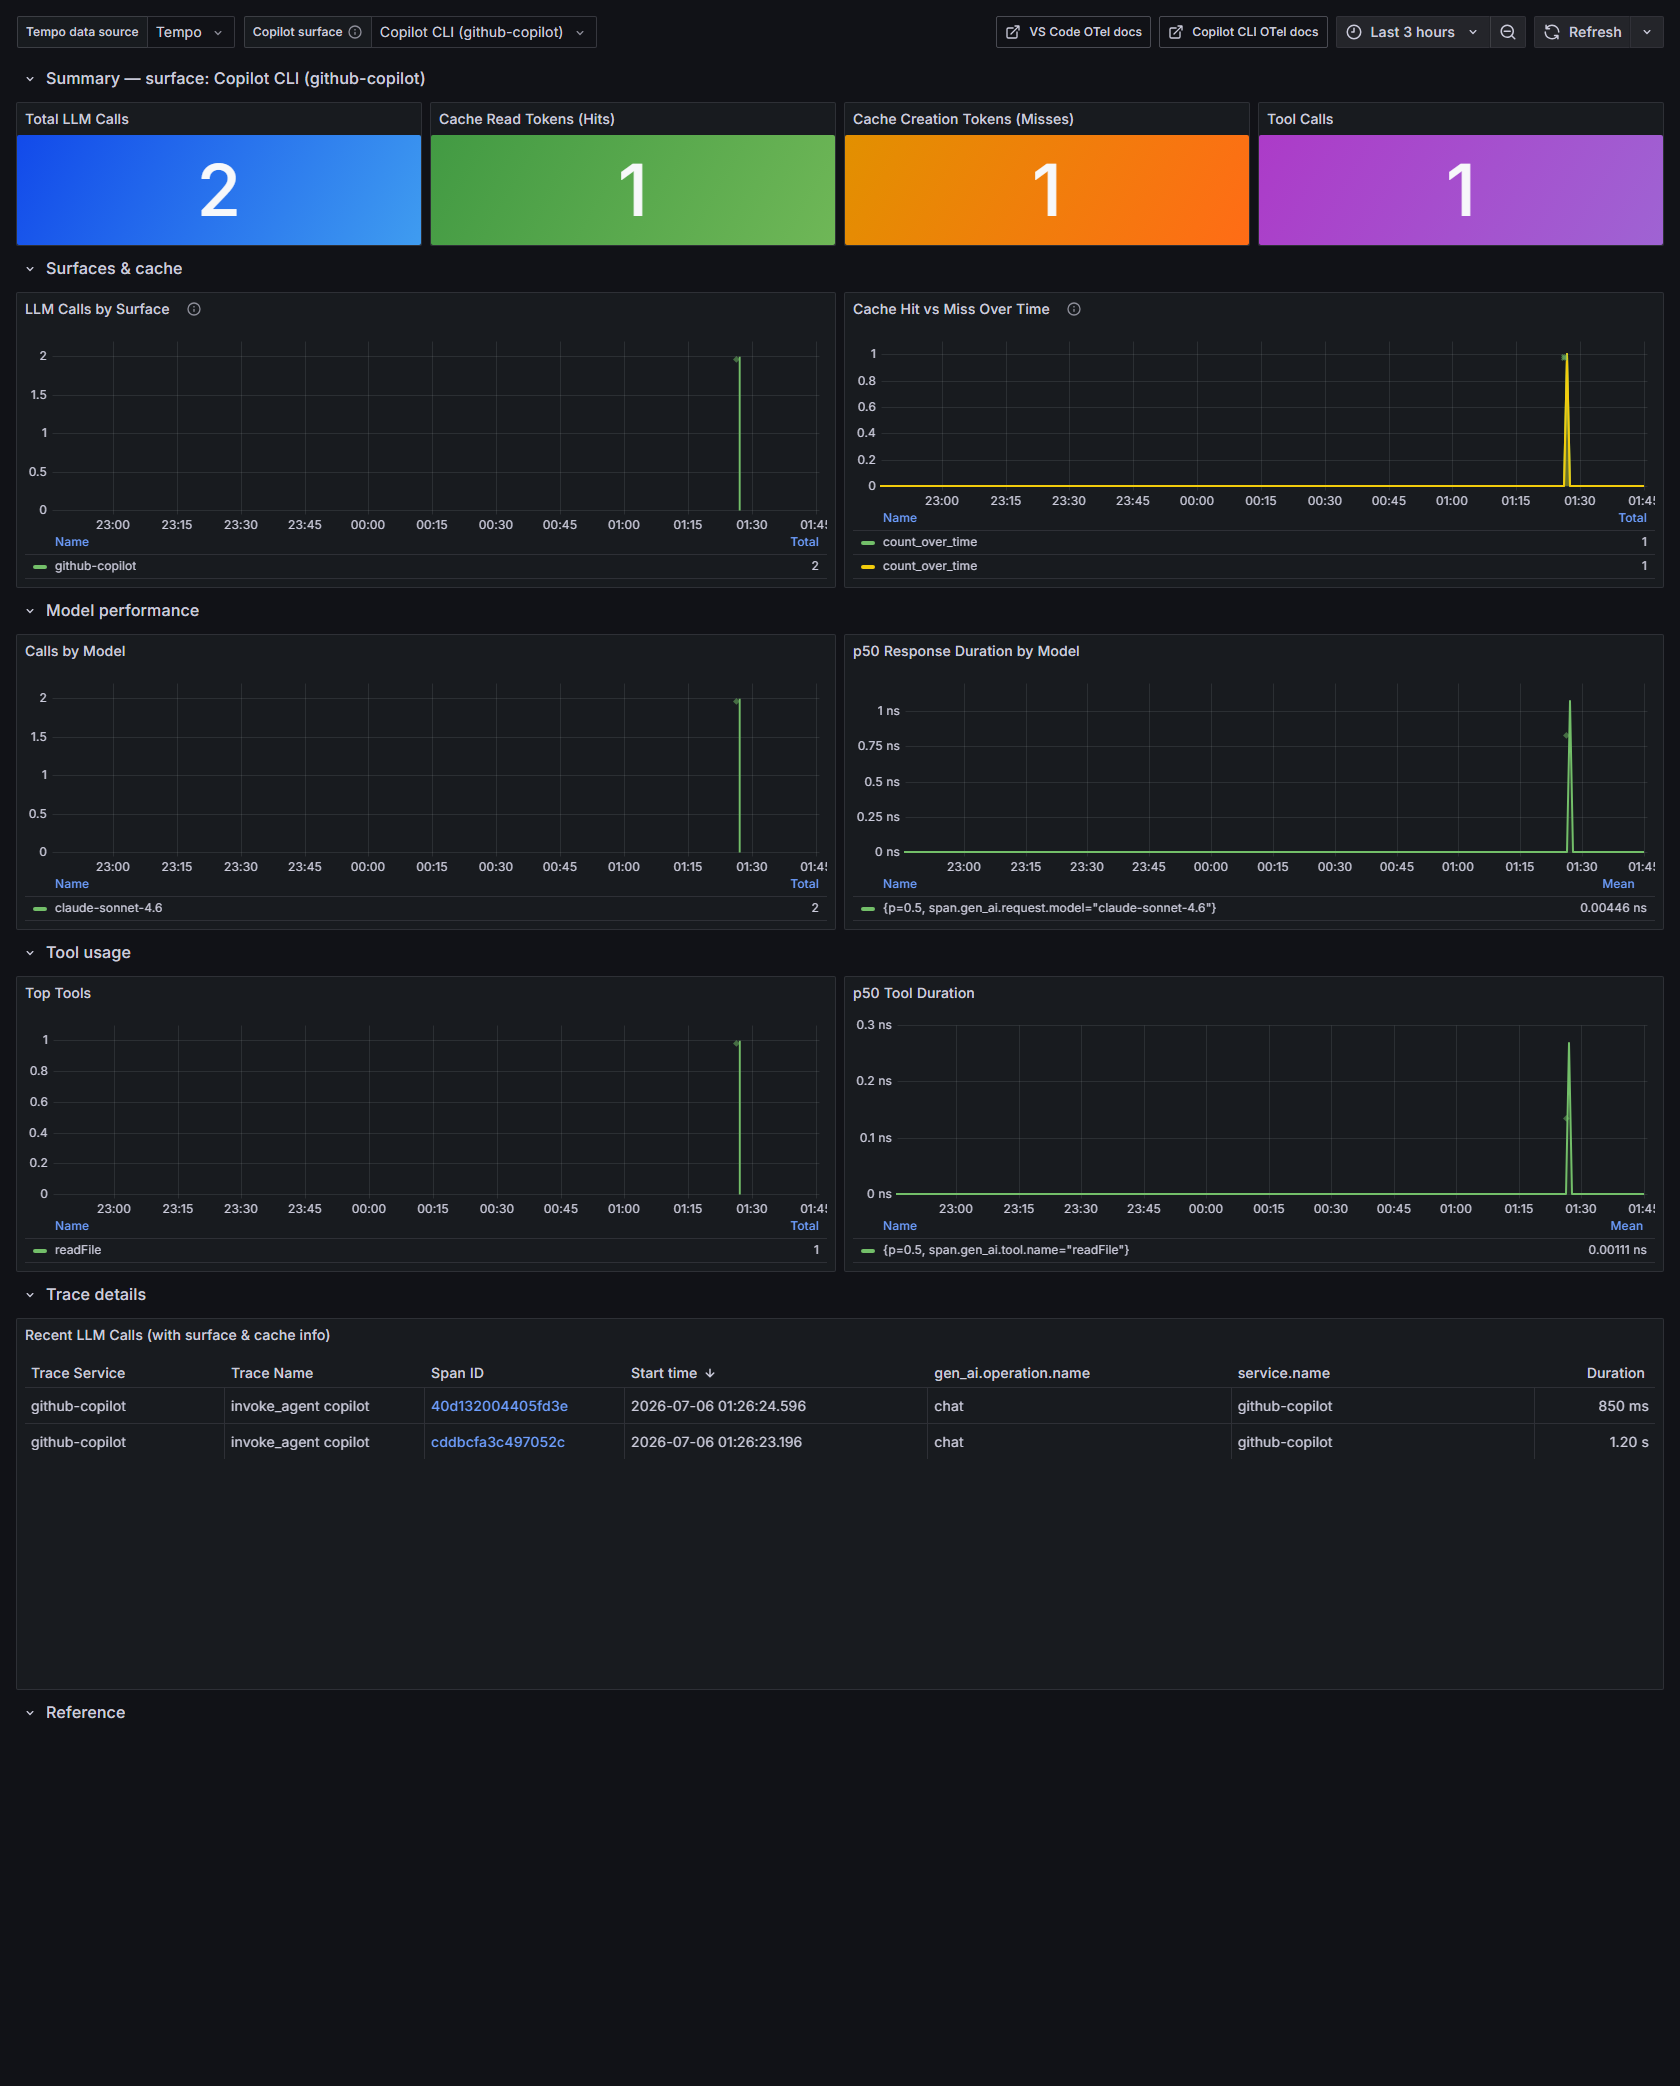
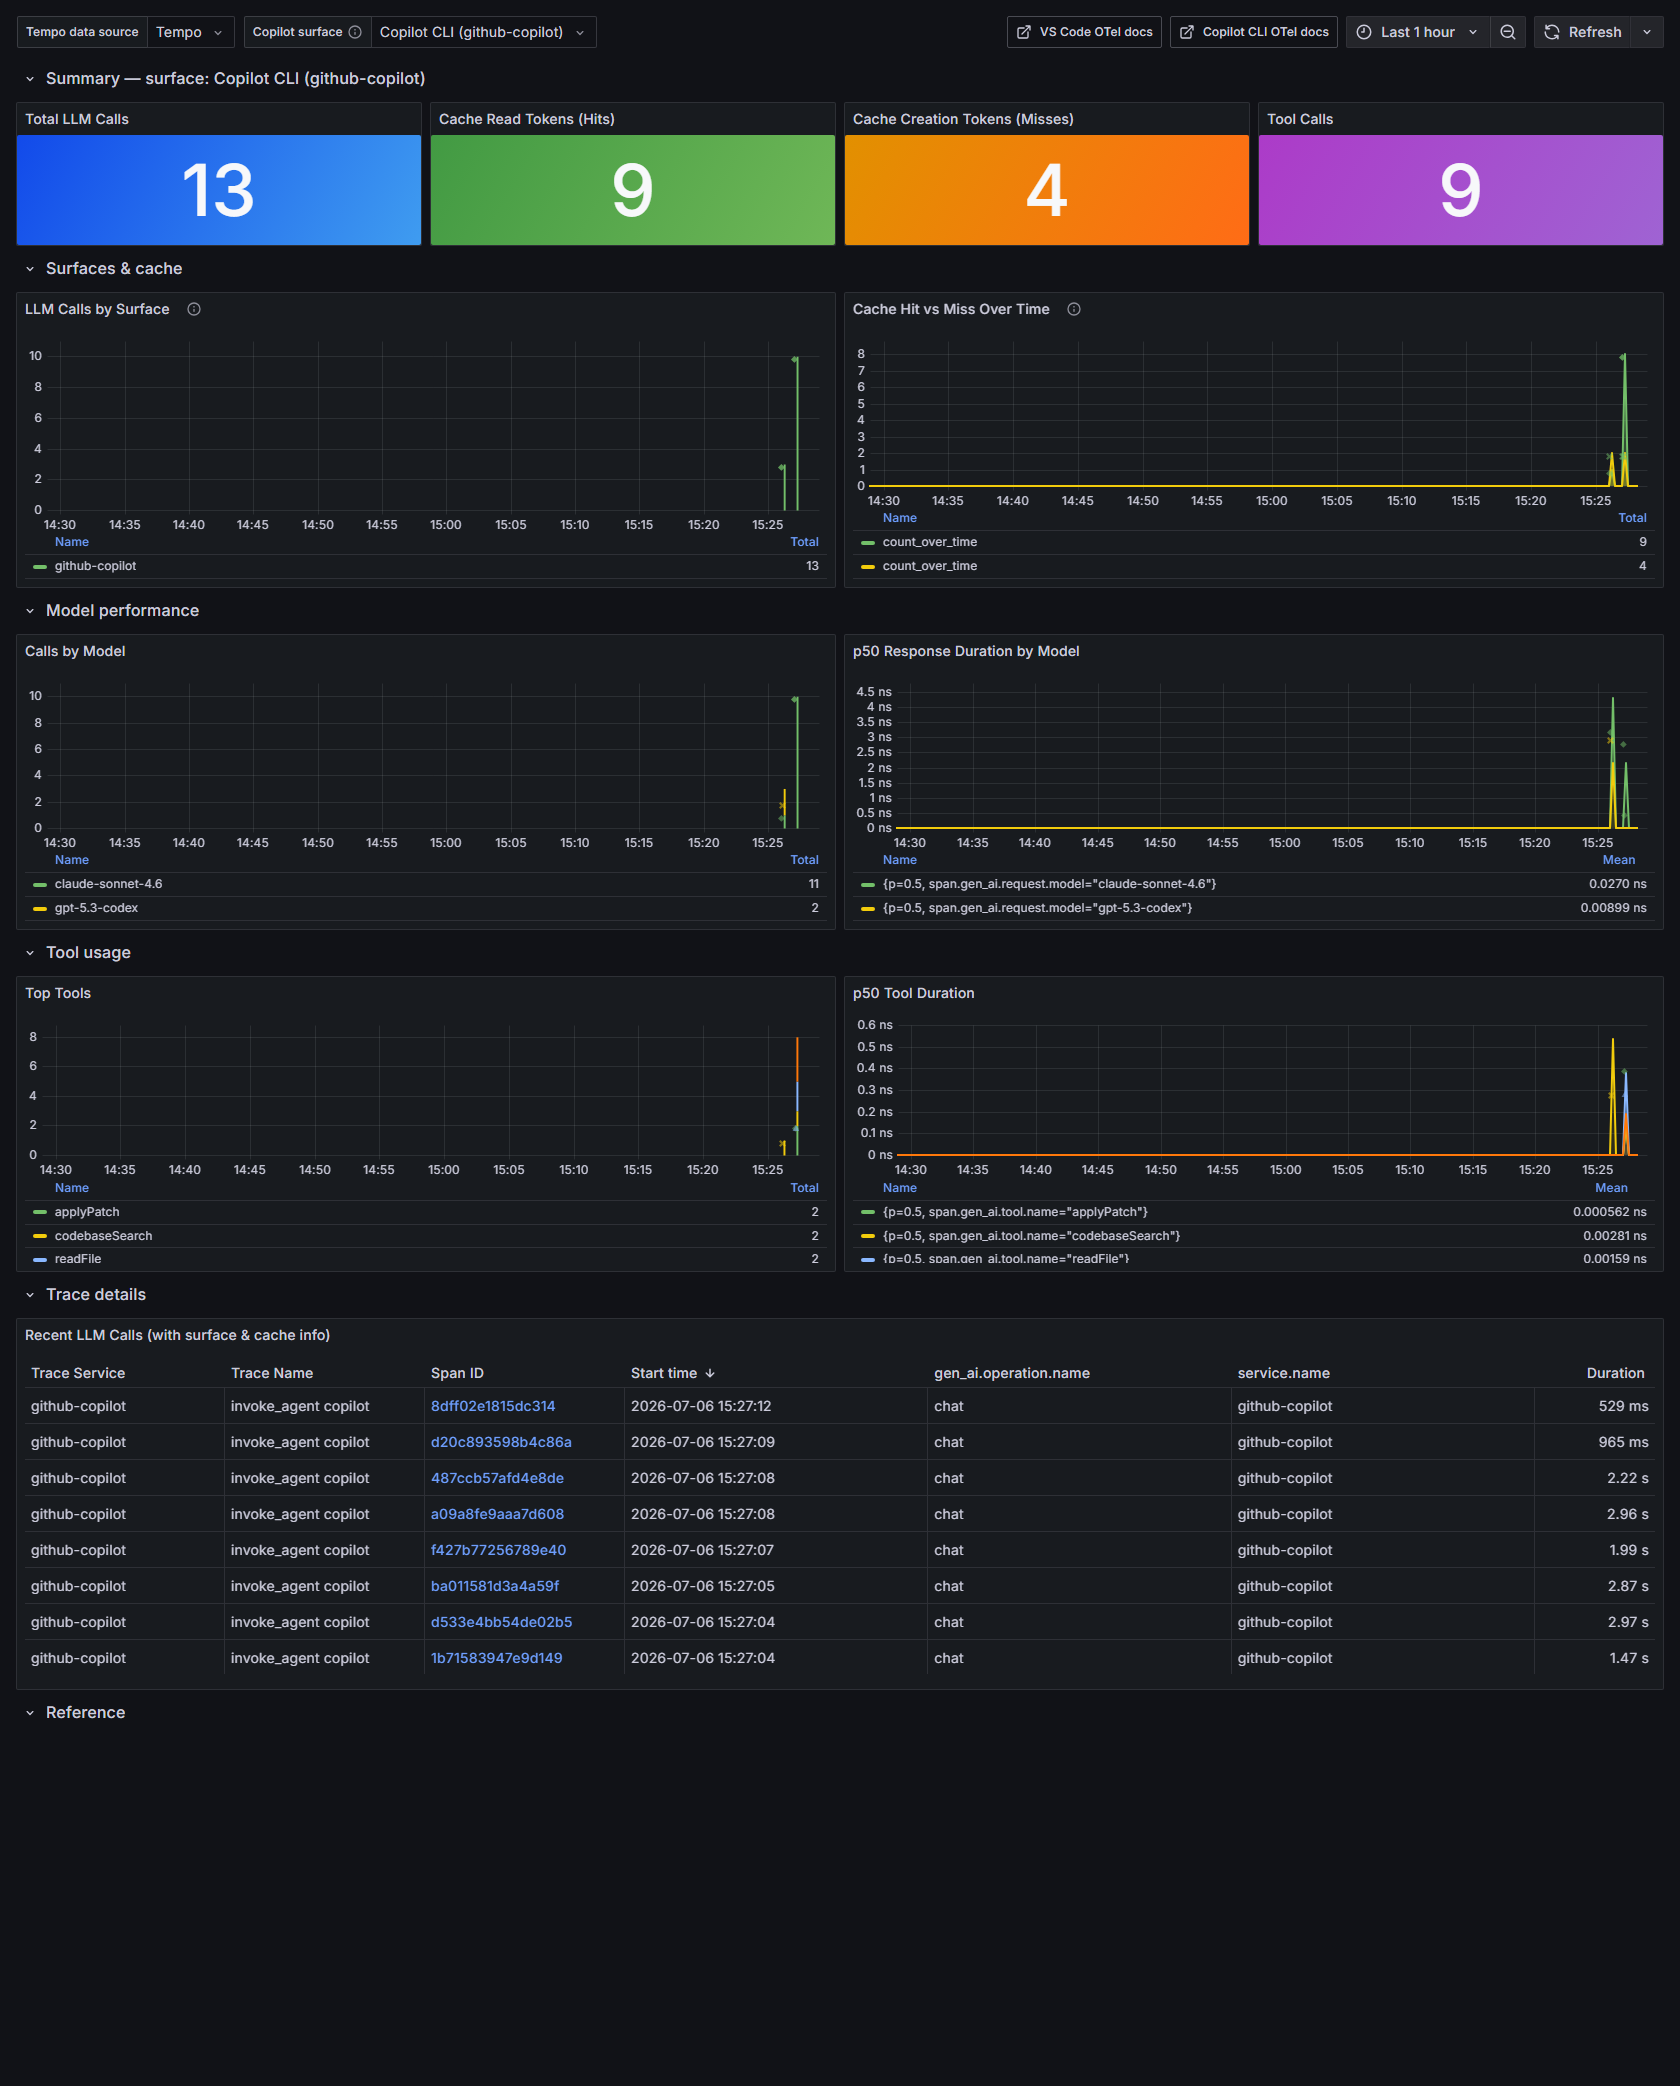
docs: reframe README + dashboards to the real picture (VS Code + CLI, not 'all surfaces')
README now leads with the honest surface-coverage table (VS Code/CLI/SDK emit customer-collectable OTel; Visual Studio/JetBrains not today; Copilot app unconfirmed; cloud coding agent = server-side/client-counters). Retitle both dashboards to 'GitHub Copilot OTel - VS Code + CLI' and relabel the selector's combined option to 'All (VS Code + CLI)'. Re-captured the Grafana screenshots to match.

diff --git a/README.md b/README.md
@@ -1,10 +1,11 @@
-# OpenTelemetry for GitHub Copilot — all surfaces (VS Code + CLI)
+# OpenTelemetry for GitHub Copilot — VS Code + the CLI
 
-A hands-on experiment and reference implementation for wiring **OpenTelemetry** through **every
-GitHub Copilot surface that emits it** — today that's **VS Code Copilot Chat** and the **GitHub
-Copilot CLI** — and visualizing the result in Grafana. It's built to be the working foundation for a
-longread article: each backend is a self-contained, reproducible setup, and the dashboards are
-surface-aware so you can compare VS Code vs the CLI (or look at both together).
+A hands-on experiment and reference implementation for wiring **OpenTelemetry** through the GitHub
+Copilot surfaces that **actually emit customer-collectable OTel today** — **VS Code Copilot Chat** and
+the **GitHub Copilot CLI** — and visualizing the result in Grafana. (Other surfaces don't expose it
+yet; the coverage table below is the honest map.) It's built to be the working foundation for a
+longread article: each backend is a self-contained, reproducible setup, and the dashboards let you
+compare VS Code vs the CLI (or look at both together).
 
 The running theme is **prompt-cache efficiency** — how often Copilot reads from the prompt cache
 (a *hit*: faster, cheaper, more stable) versus rebuilds it (a *miss*) — plus token usage, model mix,
@@ -19,21 +20,27 @@ so the same queries work for both surfaces and any OTel-compatible backend.
 
 This repo is organized around two independent choices.
 
-### 1. Surfaces — *what* is emitting telemetry
+### 1. Surfaces — *what* emits OpenTelemetry
 
-| Surface | `resource.service.name` | Signals | How to enable |
-|---------|-------------------------|---------|---------------|
-| **VS Code Copilot Chat** | `copilot-chat` | traces, metrics, events | `github.copilot.chat.otel.*` settings **or** `OTEL_*` env vars |
-| **GitHub Copilot CLI** | `github-copilot` | traces, metrics | `OTEL_*` env vars (`COPILOT_OTEL_ENABLED=true`) |
+Only some Copilot surfaces expose OTel you can export to your own backend today. The honest map
+(mid-2026):
 
-Both surfaces follow the **same GenAI conventions** — identical `gen_ai.*` attributes
-(`operation.name`, `request.model`, `usage.cache_read.input_tokens`, ...). They differ only in
-`resource.service.name`, which is exactly what the dashboards use as a **surface selector**
-(`All` / `VS Code` / `Copilot CLI`). Keep `OTEL_SERVICE_NAME` **unset** so each surface keeps its
-distinct default name.
+| Surface | Export OTel to your backend? | `resource.service.name` | How |
+|---------|------------------------------|-------------------------|-----|
+| **VS Code Copilot Chat** | ✅ Yes | `copilot-chat` | `github.copilot.chat.otel.*` settings or `OTEL_*` env vars |
+| **GitHub Copilot CLI** | ✅ Yes | `github-copilot` | `OTEL_*` env vars (`COPILOT_OTEL_ENABLED=true`) |
+| **Copilot SDK** (Node/Py/Go/.NET/Java/Rust) | ✅ Yes — for apps you build | configurable | `TelemetryConfig` (drives the CLI process) |
+| **Visual Studio** extension | ❌ Not today | — | — |
+| **JetBrains** plugins | ❌ Not today | — | Rider's own OTel plugin instruments *your app*, not Copilot |
+| **Copilot app** (desktop) | ⚠️ Not documented | — | agent-native; likely shares the CLI core |
+| **Cloud coding agent** (opens PRs) | ❌ Not directly | — | server-side; the *client* only emits session counters |
 
-> Other Copilot surfaces (JetBrains, Visual Studio, Xcode, ...) don't emit OTel today. When they do,
-> they'll slot into the same model: a new `service.name` and a new option in the surface selector.
+So this repo is scoped to the two surfaces you can actually collect from — **VS Code (`copilot-chat`)**
+and **the CLI (`github-copilot`)**. Both follow the **same GenAI conventions** (identical `gen_ai.*`
+attributes), differing only in `resource.service.name` — which is exactly what the dashboards use as a
+**surface selector** (`All (VS Code + CLI)` / `VS Code` / `Copilot CLI`). Keep `OTEL_SERVICE_NAME`
+**unset** so each surface keeps its distinct default name. When another surface adopts these
+conventions, it slots in: a new `service.name`, a new option in the selector.
 
 ### 2. Backends — *where* the telemetry goes
 
@@ -166,9 +173,9 @@ reads the **same `OTEL_*` environment variables** — so the cloud block above e
 > to `true` and full prompts, responses, and code land in the traces (fine for debugging your own,
 > risky otherwise). Going direct to the cloud (C, D) means no collector to scrub content.
 
-> **Enable *all* surfaces at once (the fleet shape).** Set the four env vars once at the user/machine
-> level and every Copilot surface reports: VS Code as `copilot-chat`, the CLI as `github-copilot`. This
-> is exactly what Option D + the surface selector are built for.
+> **Enable both surfaces at once (the fleet shape).** Set the four env vars once at the user/machine
+> level and both surfaces report: VS Code as `copilot-chat`, the CLI as `github-copilot`. This is
+> exactly what Option D + the surface selector are built for.
 
 ---
 
@@ -203,8 +210,8 @@ Use Copilot Chat and/or run `copilot` for a few minutes.
 
 ### 4. View the dashboard
 
-Open **http://localhost:3001** → Dashboards → **GitHub Copilot OTel — All Surfaces (Tempo / TraceQL)**.
-Use the **Copilot surface** dropdown to switch between *All surfaces*, *VS Code*, and *Copilot CLI*.
+Open **http://localhost:3001** → Dashboards → **GitHub Copilot OTel — VS Code + CLI (Tempo / TraceQL)**.
+Use the **Copilot surface** dropdown to switch between *All (VS Code + CLI)*, *VS Code*, and *Copilot CLI*.
 
 ### 5. Explore raw traces (Explore → Tempo)
 
@@ -365,7 +372,7 @@ Sign up at [grafana.com](https://grafana.com/). In the Grafana Cloud Portal, ope
 **Configure** on the **OpenTelemetry** tile → generate a token. It shows ready-made
 `OTEL_EXPORTER_OTLP_ENDPOINT` and `OTEL_EXPORTER_OTLP_HEADERS` values (base64 already computed).
 
-### 2. Enable ALL surfaces
+### 2. Enable both surfaces
 
 ```powershell
 setx OTEL_EXPORTER_OTLP_PROTOCOL "http/protobuf"
@@ -382,13 +389,13 @@ then use VS Code Copilot Chat and run `copilot`. Both surfaces flow to the same 
 
 Import `dashboards/tempo/copilot-otel-tempo.json` into Grafana Cloud (Dashboards → New → Import;
 pick your Grafana Cloud **Traces/Tempo** data source). Use the **Copilot surface** selector to view
-*All*, *VS Code*, or *Copilot CLI*. Or use Explore → your traces data source with the TraceQL above.
+*All (VS Code + CLI)*, *VS Code*, or *Copilot CLI*. Or use Explore → your traces data source with the TraceQL above.
 
 ---
 
 ## Dashboards (surface-aware, uploadable)
 
-Both dashboards have a **Copilot surface** template variable — *All surfaces* / *VS Code (copilot-chat)*
+Both dashboards have a **Copilot surface** template variable — *All (VS Code + CLI)* / *VS Code (copilot-chat)*
 / *Copilot CLI (github-copilot)* — that filters every panel on `resource.service.name` (TraceQL) or
 `cloud_RoleName` (KQL). They also expose a **data source** variable so you can upload them into any Grafana.
 
@@ -429,13 +436,13 @@ by the selected surface.
 
 ## Rolling this out to a team (Intune)
 
-To guarantee every developer reports telemetry from every surface, push the config as **managed
+To guarantee every developer reports telemetry from both surfaces, push the config as **managed
 settings via Microsoft Intune**:
 
 - **Local collector (B):** push the four `github.copilot.chat.otel.*` settings.
 - **Cloud endpoint (C, D):** push `OTEL_EXPORTER_OTLP_ENDPOINT`, `OTEL_EXPORTER_OTLP_HEADERS`, and
   `COPILOT_OTEL_ENABLED=true` as environment variables. This is the most scalable shape — developers
-  run nothing locally, and every surface (VS Code + CLI) reports automatically.
+  run nothing locally, and both surfaces (VS Code + CLI) report automatically.
 
 ## Using this repo as an article foundation
 
@@ -455,8 +462,8 @@ outliers, and comparing agent (`invoke_agent`) vs single-shot (`chat`) shapes ac
 - Original concept, local Docker stack, and dashboard by **Samuel Tauil** —
   [samueltauil/copilot-traces](https://github.com/samueltauil/copilot-traces) and the article
   [Visualizing Copilot Prompt Cache with OTel + Grafana](https://samueltauil.github.io/github-copilot/devops/2026/07/02/visualizing-copilot-prompt-cache-otel-grafana.html).
-- This fork generalizes it to **all Copilot surfaces** (VS Code + CLI) with surface-aware dashboards,
-  and adds the free **Azure Monitor "Dashboards with Grafana"** variant (Option B), an **Azure
+- This fork extends it to the Copilot **CLI** alongside VS Code — the two OTel-emitting surfaces — with
+  surface-aware dashboards, and adds the free **Azure Monitor "Dashboards with Grafana"** variant (Option B), an **Azure
   Container Apps** scale-to-zero collector (Option C), and a **Grafana Cloud** direct path (Option D).
 - Licensed under [MIT](LICENSE).
 